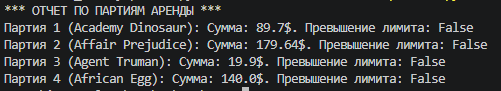
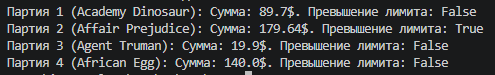
Fix Homework 8: fixed all tasks

diff --git a/8_python/python8_task1/python8_task1.py b/8_python/python8_task1/python8_task1.py
@@ -19,27 +19,27 @@ def calculate_rental_batch(
 
     final_sum = round(quantity * rental_rate * (1 - discount), 2)
 
-    is_limit_exсeeded = final_sum > MAX_RENTAL_BATCH_LIMIT
+    is_limit_exceeded = final_sum > MAX_RENTAL_BATCH_LIMIT
 
-    return final_sum, is_limit_exсeeded
+    return final_sum, is_limit_exceeded
 
 print ("*** ОТЧЕТ ПО ПАРТИЯМ АРЕНДЫ ***")
 
-final_sum, is_limit_exсeeded = calculate_rental_batch (30, 2.99)
-print(f"Партия 1 (Аcademy Dinosaur): Сумма: {final_sum}$. Превышение лимита: {is_limit_exсeeded}")
+final_sum, is_limit_exceeded = calculate_rental_batch (30, 2.99)
+print(f"Партия 1 (Аcademy Dinosaur): Сумма: {final_sum}$. Превышение лимита: {is_limit_exceeded}")
 
 final_sum, is_limit_exceeded = calculate_rental_batch (
     quantity=40, 
     rental_rate=4.99, 
     discount=0.1
 )
-print(f"Партия 2 (Affair Prejudice): Сумма: {final_sum}$. Превышение лимита: {is_limit_exсeeded}")
+print(f"Партия 2 (Affair Prejudice): Сумма: {final_sum}$. Превышение лимита: {is_limit_exceeded}")
 
 final_sum, is_limit_exceeded = calculate_rental_batch (10, 1.99)
-print(f"Партия 3 (Аgent Truman): Сумма: {final_sum}$. Превышение лимита: {is_limit_exсeeded}")
+print(f"Партия 3 (Аgent Truman): Сумма: {final_sum}$. Превышение лимита: {is_limit_exceeded}")
 final_sum, is_limit_exceeded = calculate_rental_batch (
     quantity=50, 
     rental_rate=3.5, 
     discount=0.2)
 
-print(f"Партия 4 (African Egg): Сумма: {final_sum}$. Превышение лимита: {is_limit_exсeeded}")
+print(f"Партия 4 (African Egg): Сумма: {final_sum}$. Превышение лимита: {is_limit_exceeded}")

diff --git a/8_python/python8_task3/python8_task3.py b/8_python/python8_task3/python8_task3.py
@@ -11,6 +11,11 @@ def calculate_overdue_fine(
     """
     Рассчитывает штраф за задержку проката и индекс возврата
 
+    Функция обрабатывает ошибки входных данных:
+    TypeError - если передан некорректный тип данных
+    ValueError - если значение дней невозможно преобразовать в число
+    ZeroDivisionError - если количество дней просрочки равно нулю
+
     Args:
         movie_name: Название фильма
         days: Количество просроченных дней

diff --git a/8_python/python8_task2/python8_task2.py b/8_python/python8_task2/python8_task2.py
@@ -27,7 +27,7 @@ def performance_logger (func: Callable) -> Callable:
         elapsed_time = end_time - start_time
         elapsed_time = round(elapsed_time, TIME_DECIMALS)
 
-        print(f"{PERFORMANCE_LOG_PREFIX} Функция {func.__name__} выполнена за {elapsed_time} секунд.")
+        print(f"{PERFORMANCE_LOG_PREFIX} Функция '{func.__name__}' выполнена за {elapsed_time} секунд.")
 
         return result
     
